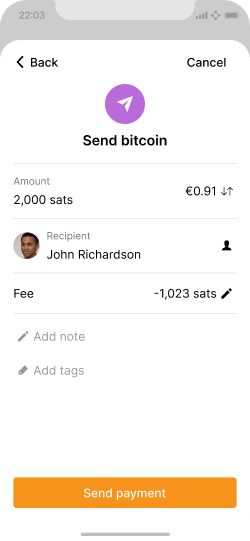
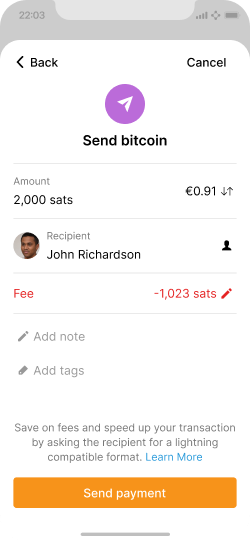
Updated onchain warning images

Changed region(s): [[0.056, 0.7689, 0.952, 0.8577], [0.644, 0.5323, 0.924, 0.5619], [0.056, 0.5323, 0.14, 0.5619]]

diff --git a/guide/daily-spending-wallet/sending.md b/guide/daily-spending-wallet/sending.md
@@ -99,12 +99,12 @@ imagesLightning:
     - file: scan-onchain-qr-code
       alt: Scanning screen as the user scans a QR code of an on-chain address
       caption: The user scans a QR code, unaware that it is an on-chain address.
-    - file: onchain-warning
-      alt: Warning screen informing that the payment will take longer to confirm and cost a higher fee
-      caption: A warning is triggered to inform the user of longer confirmation time and a higher fee.
     - file: review-onchain-tx
       alt: Payment review screen for a higher-fee, on-chain payment
-      caption: The user may choose to proceed with the on-chain payment anyways.
+      caption: The payment review screen draws attention to the higher on-chain fee and offers the user a way to save on fees and confirmation time.
+    - file: onchain-warning
+      alt: Information screen that details the payment taking 10 minutes to an hour to confirm with a fee of 1,023 sats, and suggests asking the recipient for a lightning compatible format.
+      caption: The user may choose to proceed with the on-chain payment anyways, but has been informed they may be able to save time and fees by asking for a different payment format.
 ---
 
 <!--
